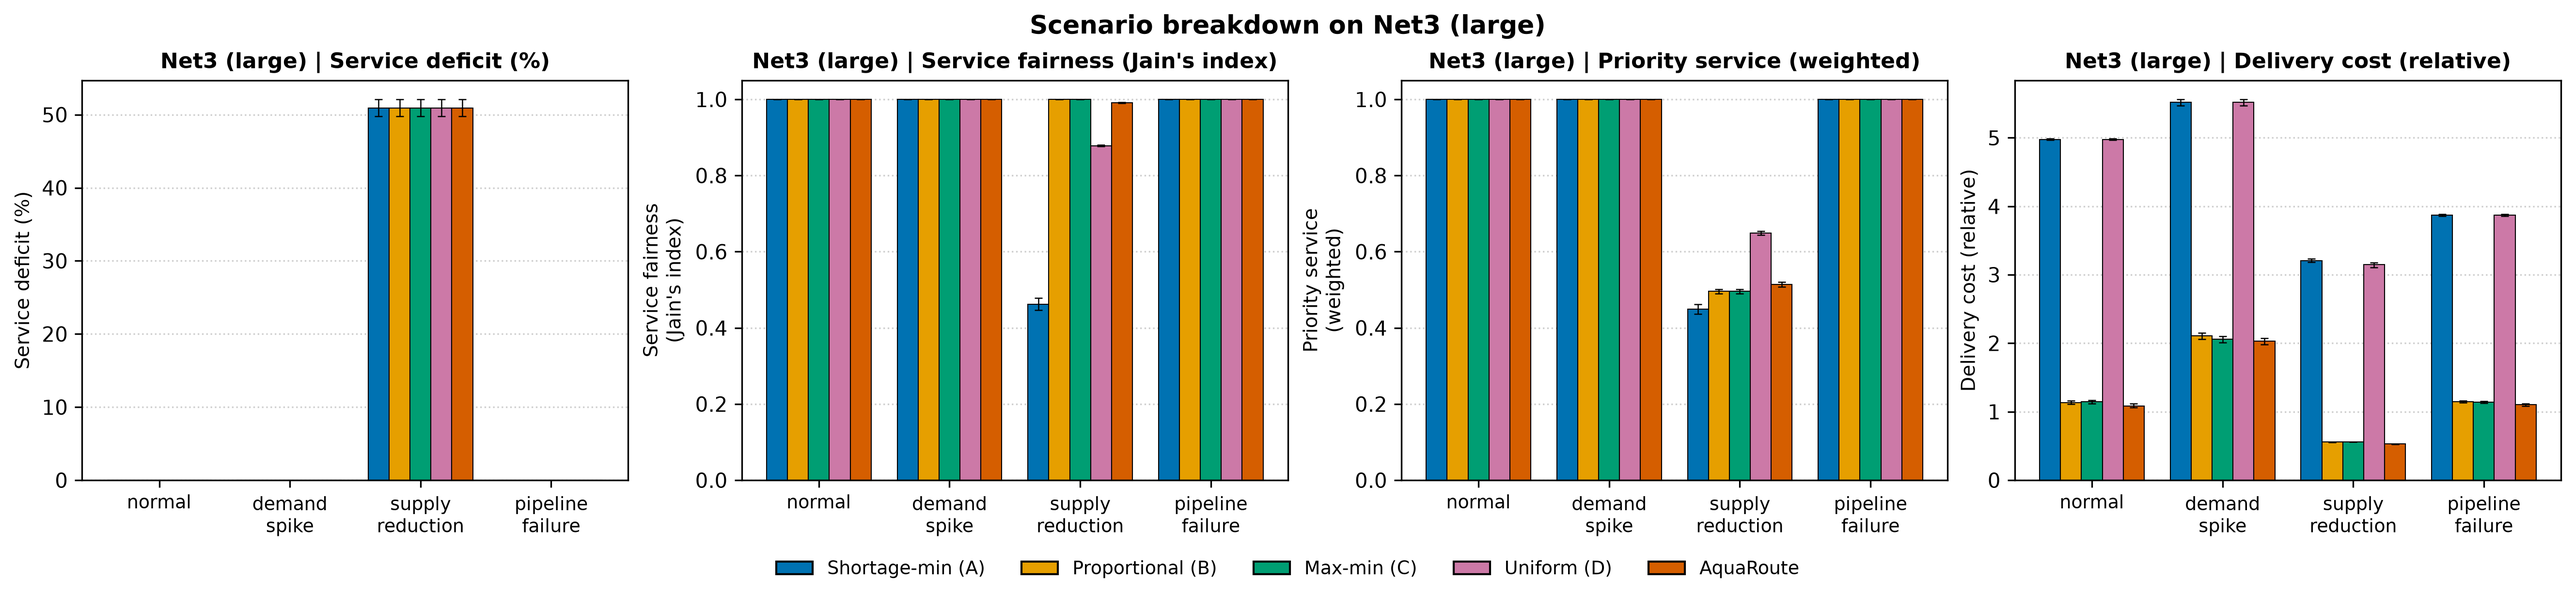
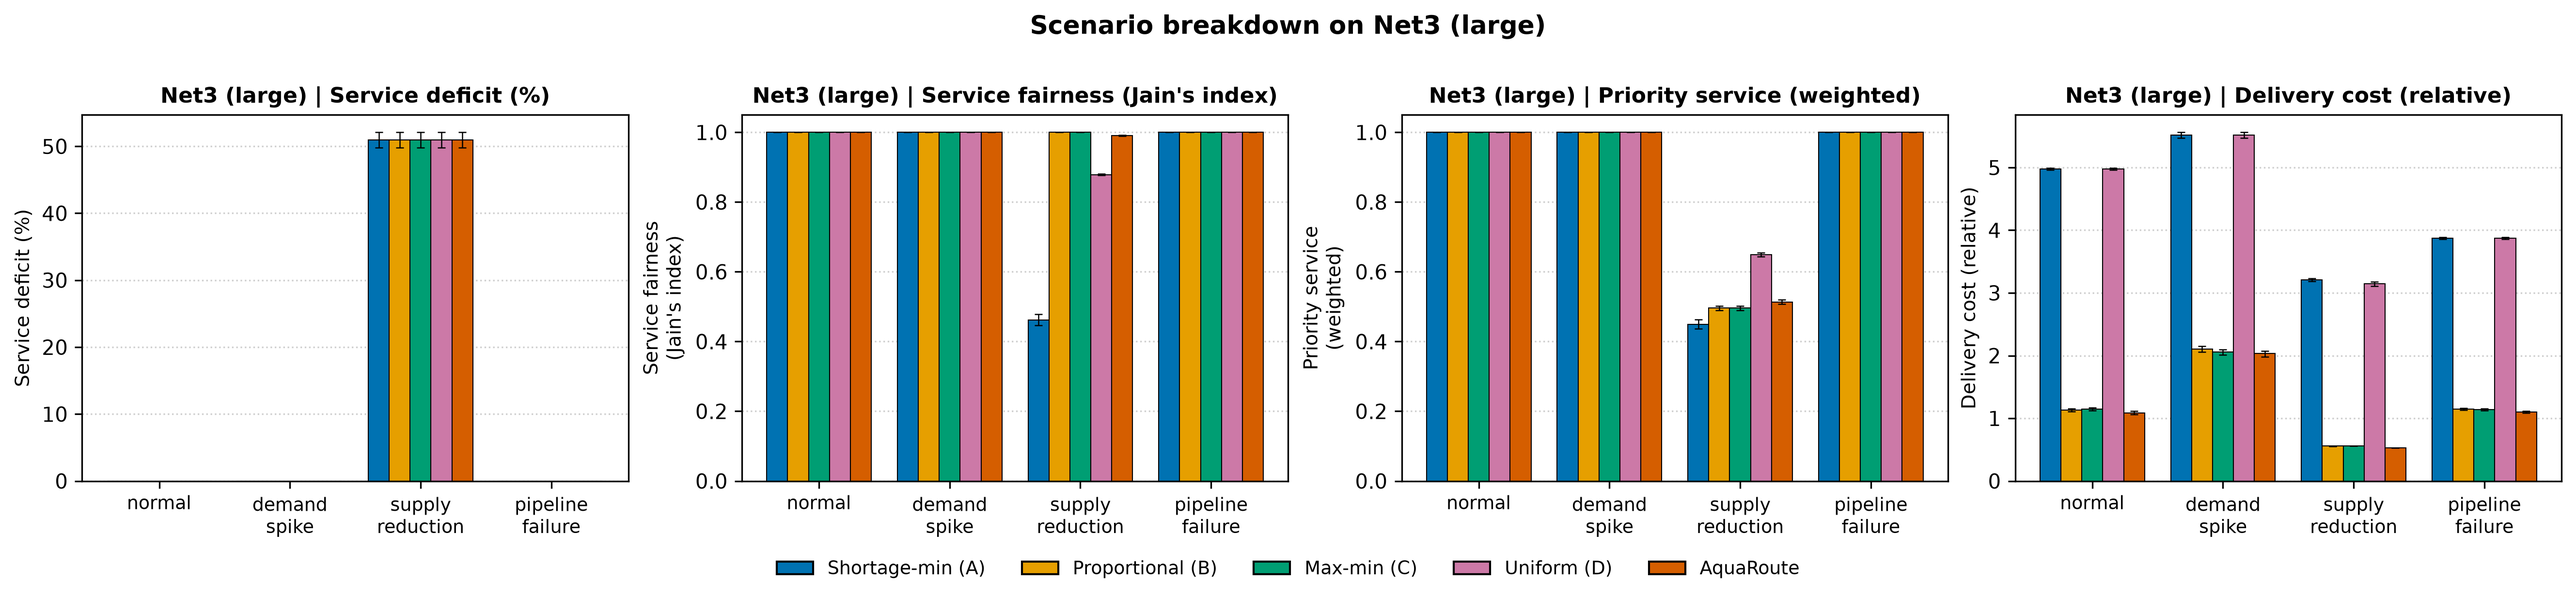
Update AquaRoute research figures

diff --git a/aquaroute/scripts/make_figures.py b/aquaroute/scripts/make_figures.py
@@ -620,6 +620,125 @@ def figure_statistical_summary(metas: Dict[str, dict], outdir: str,
     return png
 
 
+def figure_resilience_summary(results: Dict[str, dict],
+                              total_demands: Dict[str, float],
+                              outdir: str, dpi: int = 300) -> Optional[str]:
+    """Resilience: shortage and cost across all scenarios x networks x approaches."""
+    networks = [n for n in ("Net1", "Net2", "Net3") if n in results]
+    if not networks:
+        return None
+    scenarios = ["normal", "demand_spike", "supply_reduction", "pipeline_failure"]
+    scenarios = [s for s in scenarios if any(
+        r.get("scenario_type") == s for rows in results.values() for r in rows["rows"])]
+    metrics = [("deficit_pct", "Service deficit (%)", "lower"),
+               ("delivery_cost", "Delivery cost (relative)", "lower")]
+    fig, axes = plt.subplots(len(metrics), len(networks),
+                             figsize=(4.6 * len(networks), 3.4 * len(metrics)),
+                             constrained_layout=True)
+    if len(metrics) == 1:
+        axes = axes.reshape(1, -1)
+    if len(networks) == 1:
+        axes = axes.reshape(-1, 1)
+    n_ap = len(APPROACH_ORDER)
+    width = 0.8 / n_ap
+    for r, (key, ylabel, direction) in enumerate(metrics):
+        for c, net in enumerate(networks):
+            ax = axes[r][c]
+            rows = results[net]["rows"]
+            td = total_demands.get(net, 1.0)
+            x = np.arange(len(scenarios))
+            for k, approach in enumerate(APPROACH_ORDER):
+                means = []
+                for s in scenarios:
+                    if key == "deficit_pct":
+                        vals = _deficit_values(rows, approach, td, scenario=s)
+                    else:
+                        vals = _raw_values(rows, approach, key, scenario=s)
+                    m, _, _ = _bootstrap_ci(vals)
+                    means.append(m)
+                means = np.array(means, dtype=float)
+                ax.bar(x + (k - (n_ap - 1) / 2) * width, means, width=width,
+                       color=PALETTE[k], edgecolor="black", linewidth=0.5,
+                       label=None)
+            label = METRICS[key][0] if key in METRICS else ylabel
+            ax.set_title(f"{NETWORK_TITLES.get(net, net)} | {label}",
+                         fontsize=9.5, fontweight="bold")
+            ax.set_xticks(x)
+            ax.set_xticklabels([s.replace("_", " ").title() for s in scenarios],
+                               fontsize=8)
+            ax.grid(axis="y", linestyle=":", alpha=0.6)
+            ax.set_axisbelow(True)
+            if c == 0:
+                ax.set_ylabel(label, fontsize=9)
+
+    handles = [Patch(facecolor=PALETTE[k], edgecolor="black",
+                     label=APPROACH_LABELS[a])
+               for k, a in enumerate(APPROACH_ORDER)]
+    fig.legend(handles=handles, loc="outside lower center", ncol=5,
+               frameon=False, fontsize=9)
+    fig.suptitle("Resilience under disruptions (all networks x scenarios)",
+                 fontsize=11.5, fontweight="bold")
+    fig.get_layout_engine().set(rect=(0.0, 0.0, 1.0, 0.94), h_pad=0.04, w_pad=0.04)
+    _report_overlaps(fig, "resilience_summary")
+    png = os.path.join(outdir, "resilience_summary.png")
+    fig.savefig(png, dpi=dpi, bbox_inches="tight")
+    fig.savefig(png.replace(".png", ".pdf"), bbox_inches="tight")
+    plt.close(fig)
+    return png
+
+
+def figure_hydraulic_flow(results: Dict[str, dict], metas: Dict[str, dict],
+                          outdir: str, dpi: int = 300) -> Optional[str]:
+    """Mean pipe flow rate under supply reduction per approach x network."""
+    networks = [n for n in ("Net1", "Net2", "Net3") if n in results and n in metas]
+    if not networks:
+        return None
+    fig, axes = plt.subplots(1, len(networks), figsize=(4.4 * len(networks), 3.6),
+                             constrained_layout=True)
+    if len(networks) == 1:
+        axes = [axes]
+    for i, net in enumerate(networks):
+        ax = axes[i]
+        meta = metas[net]
+        hv = meta.get("hydraulic_validation", {})
+        means = []
+        for approach in APPROACH_ORDER:
+            rep = hv.get(approach, {}).get("supply_reduction", {})
+            if "error" in rep:
+                means.append(np.nan); continue
+            flows = [float(v) for v in rep.get("hydraulics", {}).get("flow", {}).values()
+                     if np.isfinite(v)]
+            means.append(float(np.mean(np.abs(flows))) if flows else np.nan)
+        means = np.array(means, dtype=float)
+        ax.bar(np.arange(len(APPROACH_ORDER)), means, width=0.72,
+               color=PALETTE[:len(APPROACH_ORDER)], edgecolor="black",
+               linewidth=0.6)
+        ax.set_title(f"{NETWORK_TITLES.get(net, net)}\nMean pipe flow rate\n(supply reduction)",
+                     fontsize=10, fontweight="bold")
+        ax.set_xticks(np.arange(len(APPROACH_ORDER)))
+        ax.set_xticklabels([APPROACH_TICKS[a] for a in APPROACH_ORDER],
+                           rotation=0, ha="center", fontsize=8)
+        ax.grid(axis="y", linestyle=":", alpha=0.6)
+        ax.set_axisbelow(True)
+        ax.set_ylabel("Mean |flow| (m3/s)", fontsize=9)
+        ax.tick_params(axis="y", labelsize=8)
+
+    handles = [Patch(facecolor=PALETTE[k], edgecolor="black",
+                     label=APPROACH_LABELS[a])
+               for k, a in enumerate(APPROACH_ORDER)]
+    fig.legend(handles=handles, loc="outside lower center", ncol=5,
+               frameon=False, fontsize=9)
+    fig.suptitle("Mean pipe flow rate under supply reduction (original EPANET model)",
+                 fontsize=11.5, fontweight="bold")
+    fig.get_layout_engine().set(rect=(0.0, 0.0, 1.0, 0.94), h_pad=0.04, w_pad=0.04)
+    _report_overlaps(fig, "hydraulic_flow")
+    png = os.path.join(outdir, "hydraulic_flow.png")
+    fig.savefig(png, dpi=dpi, bbox_inches="tight")
+    fig.savefig(png.replace(".png", ".pdf"), bbox_inches="tight")
+    plt.close(fig)
+    return png
+
+
 def main(argv=None) -> int:
     parser = argparse.ArgumentParser(description="Generate AquaRoute figures.")
     parser.add_argument("--results-dir", default="results")
@@ -659,6 +778,12 @@ def main(argv=None) -> int:
     if out:
         print("Wrote", out)
     out = figure_statistical_summary(metas, args.figures_dir, args.dpi)
+    if out:
+        print("Wrote", out)
+    out = figure_resilience_summary(results, total_demands, args.figures_dir, args.dpi)
+    if out:
+        print("Wrote", out)
+    out = figure_hydraulic_flow(results, metas, args.figures_dir, args.dpi)
     if out:
         print("Wrote", out)
     return 0
